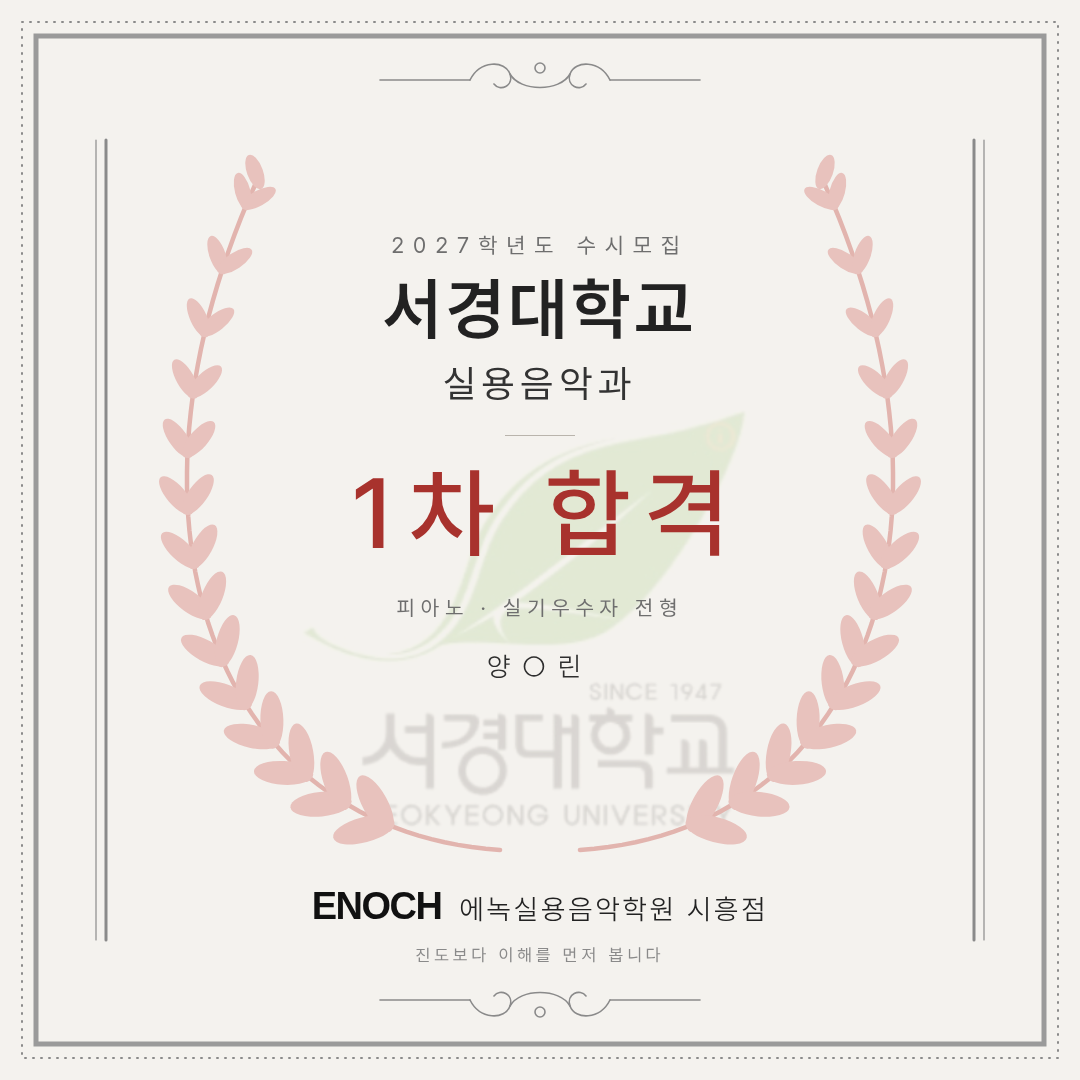
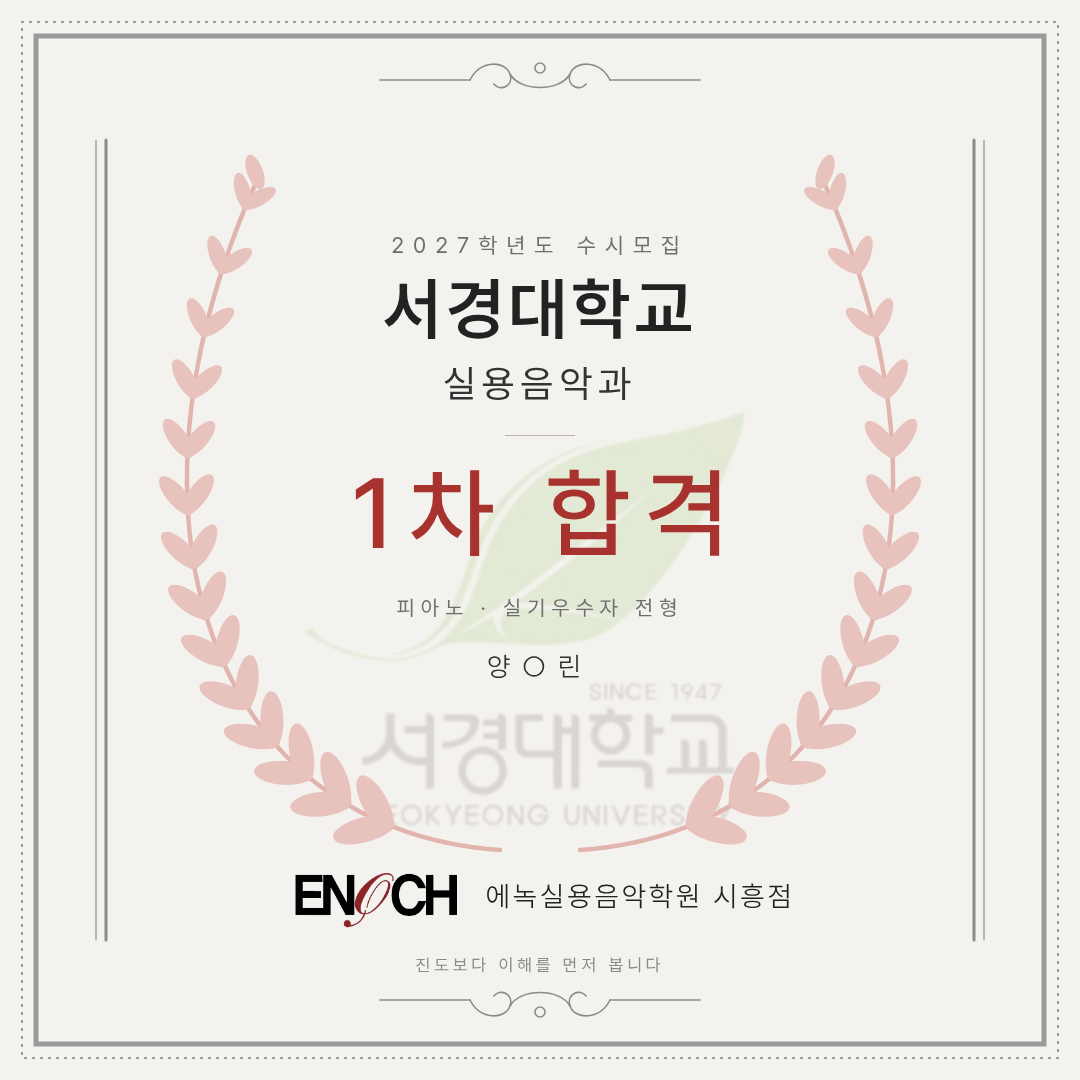
ENOCH 로고 추가, 합격 포스터 하단에 적용
Claude-Session: https://claude.ai/code/session_01HGbZvgMeYrbU7mY8bwfjyb

Changed region(s): [[0.275, 0.7944, 0.7333, 0.9167], [0.3972, 0.8861, 0.4278, 0.9167]]

diff --git a/output/합격_서경대_피아노/thumb_square.html b/output/합격_서경대_피아노/thumb_square.html
@@ -25,6 +25,6 @@
 <div class="a c" style="top:465px;font-size:98px;font-weight:500;letter-spacing:14px;padding-left:14px;line-height:1;color:#A8322D">1차 합격</div>
 <div class="a c" style="top:595px;font-size:21px;letter-spacing:6px;color:#6E6E6E">피아노 · 실기우수자 전형</div>
 <div class="a c" style="top:650px;font-size:27px;font-weight:300;letter-spacing:12px;color:#2E2E2E">양○린</div>
-<div class="a c" style="top:885px;display:flex;justify-content:center;align-items:baseline;gap:18px"><span style="font-family:'Helvetica Neue',Arial,'Liberation Sans',sans-serif;font-weight:700;font-size:38px;letter-spacing:-1.5px;color:#111">ENOCH</span><span style="font-size:28px;font-weight:300;letter-spacing:3px;color:#222">에녹실용음악학원 시흥점</span></div>
-<div class="a c" style="top:945px;font-size:17px;letter-spacing:4px;color:#8A8A8A">진도보다 이해를 먼저 봅니다</div>
+<div class="a c" style="top:860px;display:flex;justify-content:center;align-items:center;gap:18px"><img src="../../images/로고/ENOCH_로고.png" style="height:72px;mix-blend-mode:multiply;align-self:center"><span style="font-size:28px;font-weight:300;letter-spacing:3px;color:#222">에녹실용음악학원 시흥점</span></div>
+<div class="a c" style="top:955px;font-size:17px;letter-spacing:4px;color:#8A8A8A">진도보다 이해를 먼저 봅니다</div>
 </section></body></html>

diff --git a/output/합격_서경대_피아노/poster_laurel.html b/output/합격_서경대_피아노/poster_laurel.html
@@ -34,7 +34,7 @@
 <div class="a c" style="top:570px;font-size:110px;font-weight:500;letter-spacing:16px;padding-left:16px;line-height:1;color:#A8322D">1차 합격</div>
 <div class="a c" style="top:720px;font-size:24px;letter-spacing:6px;color:#6E6E6E">피아노 · 실기우수자 전형</div>
 <div class="a c" style="top:790px;font-size:30px;font-weight:300;letter-spacing:12px;color:#2E2E2E">양○린</div>
-<div class="a c" style="top:1085px;display:flex;justify-content:center;align-items:baseline;gap:22px"><span style="font-family:'Helvetica Neue',Arial,'Liberation Sans',sans-serif;font-weight:700;font-size:46px;letter-spacing:-2px;color:#111">ENOCH</span><span style="font-size:34px;font-weight:300;letter-spacing:3px;color:#222">에녹실용음악학원 시흥점</span></div>
+<div class="a c" style="top:1085px;display:flex;justify-content:center;align-items:center;gap:22px"><img src="../../images/로고/ENOCH_로고.png" style="height:84px;mix-blend-mode:multiply;align-self:center"><span style="font-size:34px;font-weight:300;letter-spacing:3px;color:#222">에녹실용음악학원 시흥점</span></div>
 <div class="a" style="left:420px;width:240px;top:1170px;height:1px;background:#8A8A8A"></div>
 <div class="a c" style="top:1190px;font-size:20px;letter-spacing:4px;color:#6E6E6E">진도보다 이해를 먼저 봅니다</div>
 </section></body></html>
